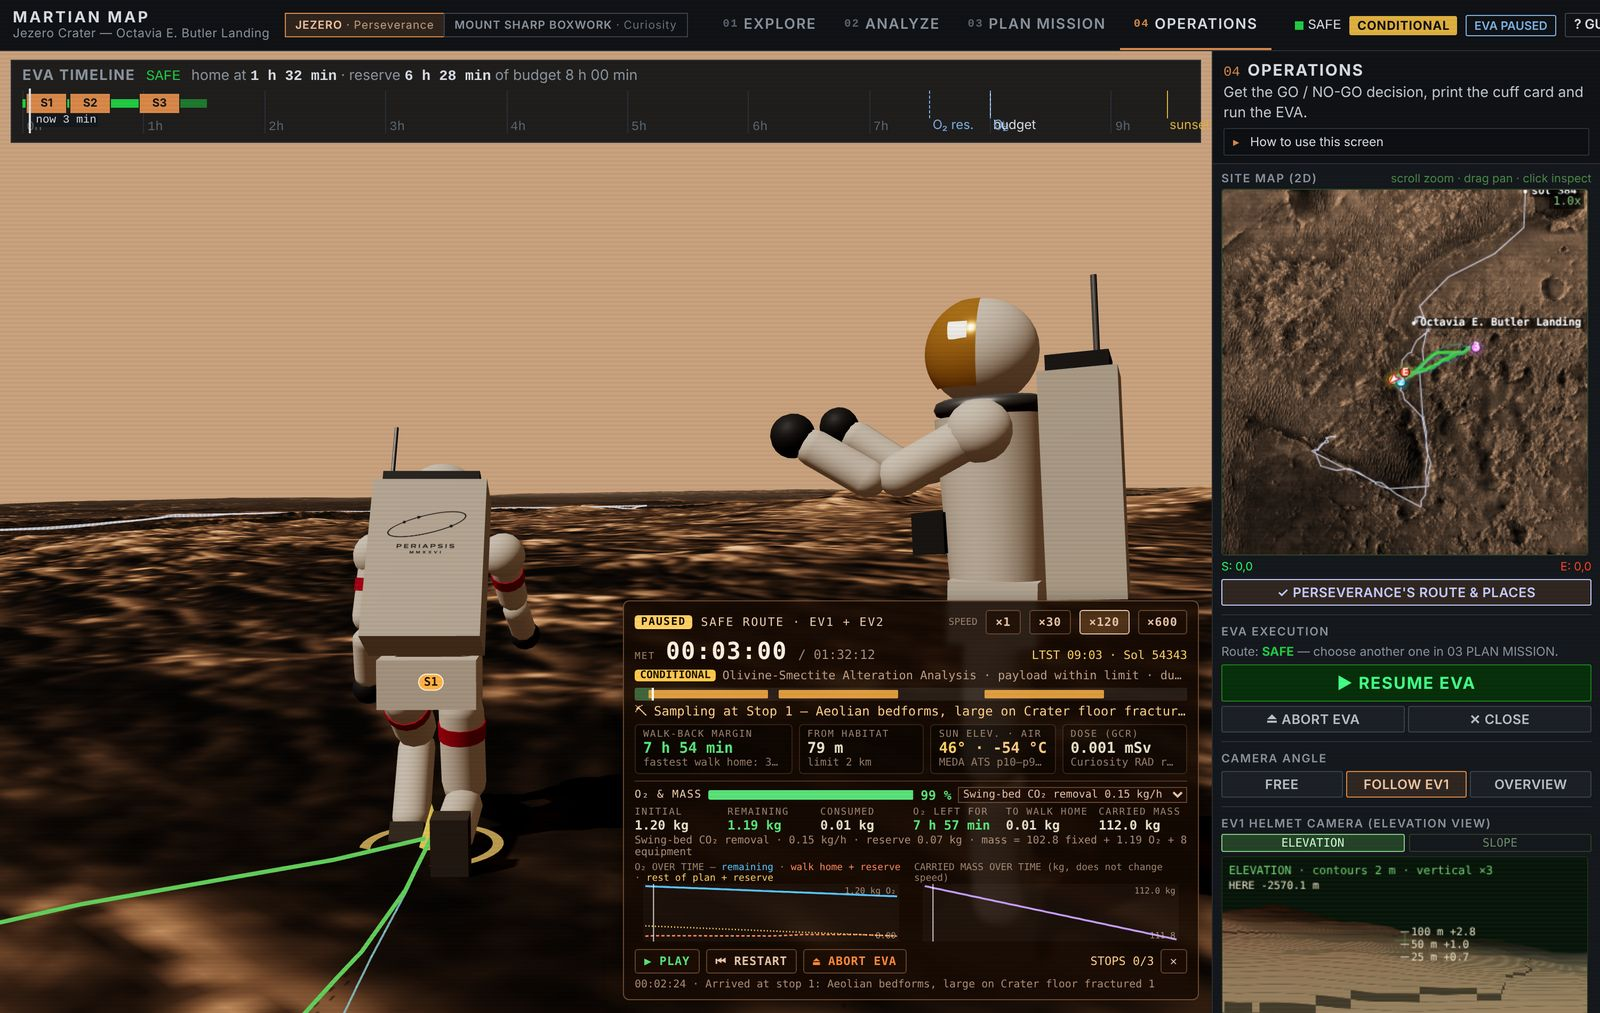
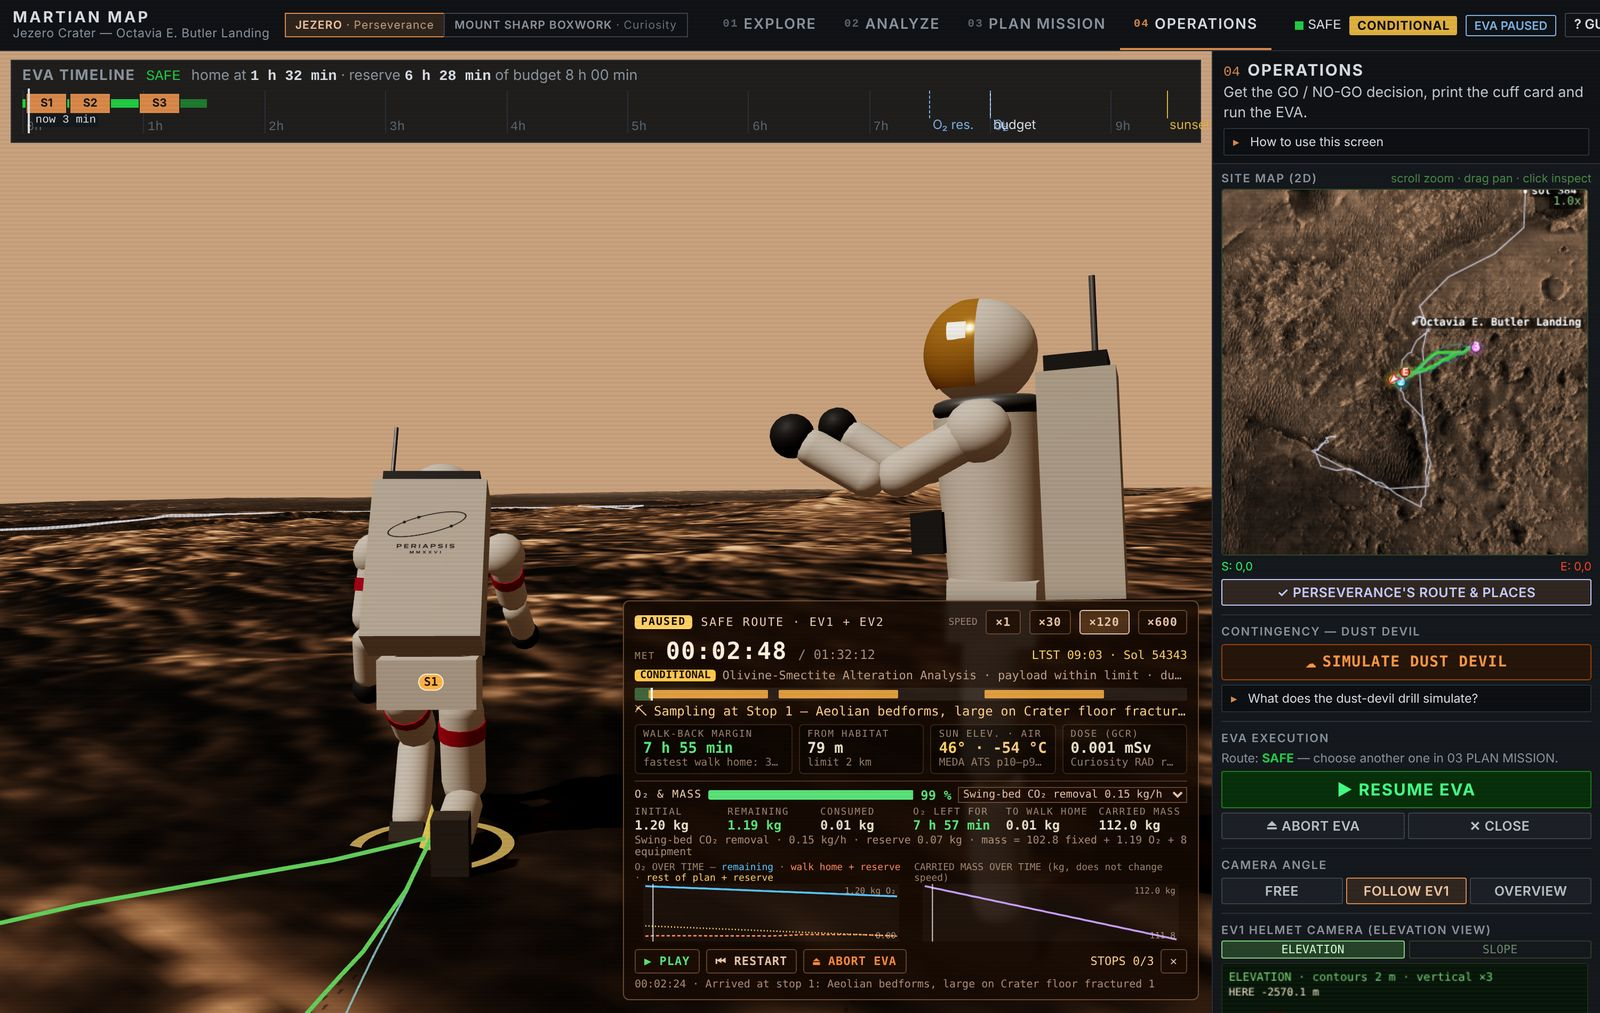
docs(readme): Operations order with the dust-devil drill under the site map; new hero
Claude-Session: https://claude.ai/code/session_01XjSewtSs7RhtByy8FnJEXA

diff --git a/README.md b/README.md
@@ -17,7 +17,7 @@ The first people to walk on Mars will want the best map possible. **Martian Map*
 
 > **Why another Mars map?** Tools like JPL's Mars Trek and the USGS–NASA geologic maps layer data over the whole planet, at regional scale. An astronaut on a single Marswalk needs the opposite: one 2 km × 2 km area, every layer on the same **4 m grid**, rocks picked out at **1 m**, and a plan that says *where to walk, what to sample, and when to turn back*. Martian Map is built for that hyperlocal scale.
 
-![04 OPERATIONS at Jezero: EV1 kneels to sample stop 1 while EV2 documents; the EVA timeline runs across the top; the HUD shows the mission clock, walk-back margin, distance from the habitat, sun, air temperature, dose and the oxygen & mass panel; the side panel shows the site map, START / RESUME EVA, the camera angle and the helmet camera](docs/img/hero.jpg)
+![04 OPERATIONS at Jezero: EV1 kneels to sample stop 1 while EV2 documents; the EVA timeline runs across the top; the HUD shows the mission clock, walk-back margin, distance from the habitat, sun, air temperature, dose and the oxygen & mass panel; the side panel shows the site map, the dust devil drill, RESUME / ABORT EVA, the camera angle and the helmet camera](docs/img/hero.jpg)
 
 ## At a glance
 
@@ -86,7 +86,7 @@ The Mars sites open in four workspaces, one per stage of a mission. Switching ke
 | **01 EXPLORE** — look at the site and what each layer shows | data catalog | 3D terrain | inspector of the clicked point, site map, camera |
 | **02 ANALYZE** — check the data the plan rests on, and what is missing | data catalog | 3D terrain | inspector, terrain analysis (layers, legend, compare, drape), scientific data available and missing, helmet camera, **Mars AI terrain segmentation**, provenance table |
 | **03 PLAN MISSION** — set up the crew and plan the walk | — | 3D terrain + **EVA timeline** | **site map** → **waypoints** (mark points on the map) → **route modes** SAFE / ECO / FAST / AUTO → objective & science stops → route comparison → mission configuration |
-| **04 OPERATIONS** — decide and run the EVA | — | 3D terrain + **EVA timeline** | **site map** → **START EVA** (the route chosen in Plan, not asked again) → **camera angle** (free / follow EV1 / overview) → **helmet camera** (image processing: elevation / slope view) → **Martian EVA Cuff** → mission summary & GO / NO-GO → contingency, telemetry, export, log |
+| **04 OPERATIONS** — decide and run the EVA | — | 3D terrain + **EVA timeline** | **site map** → **dust devil drill** (SIMULATE DUST DEVIL, then click the map) → **START EVA** (the route chosen in Plan, not asked again) → **camera angle** (free / follow EV1 / overview) → **helmet camera** (image processing: elevation / slope view) → **Martian EVA Cuff** → mission summary & GO / NO-GO → telemetry, export, log |
 
 - **Data catalog** — built from what the site actually loaded, by category (imagery, topography, geology, mineralogy, thermal, AI terrain segmentation, hazards, atmospheric, radiation). Tick a layer to drape it on the 3D terrain; several layers can be draped at once, each with its opacity and draw order; ⓘ opens its description and source.
 - **Inspector** — one card for a map point (coordinates, elevation, slope, hazard, distance home, *add as waypoint*), a data layer, a science stop or a route, with tabs for overview, scientific evidence, data source, technical details and mission relevance.
@@ -102,9 +102,9 @@ The Mars sites open in four workspaces, one per stage of a mission. Switching ke
 <tr><td align="center"><b>01 EXPLORE</b> — catalog, drapes, point inspector</td><td align="center"><b>02 ANALYZE</b> — layer inspector, terrain analysis</td></tr>
 <tr>
 <td width="50%"><img src="docs/img/ws-plan.jpg" alt="03 PLAN MISSION at Jezero: the EVA timeline across the top, both astronauts full height in the 3D view, and on the right the site map with the planned route, the waypoint list with ADD / REMOVE / PLAN PATH and the SAFE / ECO / FAST / AUTO route modes"></td>
-<td width="50%"><img src="docs/img/hero.jpg" alt="04 OPERATIONS at Jezero during the EVA: site map, RESUME / ABORT EVA, camera angle and helmet camera on the right, the HUD over the 3D view"></td>
+<td width="50%"><img src="docs/img/hero.jpg" alt="04 OPERATIONS at Jezero during the EVA: site map, dust devil drill, RESUME / ABORT EVA and camera angle on the right, the HUD over the 3D view"></td>
 </tr>
-<tr><td align="center"><b>03 PLAN MISSION</b> — map → waypoints → route modes</td><td align="center"><b>04 OPERATIONS</b> — map → EVA → camera angle → helmet camera</td></tr>
+<tr><td align="center"><b>03 PLAN MISSION</b> — map → waypoints → route modes</td><td align="center"><b>04 OPERATIONS</b> — map → dust devil drill → EVA → camera angle → helmet camera</td></tr>
 </table>
 
 ## On a tablet or a phone
@@ -480,7 +480,7 @@ Every number on the card is the planner's own: the same timeline the GO / NO-GO 
 - The HUD shows mission elapsed time, the current activity, the **live walk-back margin**, distance from the habitat, the sun, the site's air temperature (MEDA or REMS) and the **radiation dose so far**.
 - The **camera angle** sits right under START EVA: *Follow EV1* keeps both astronauts in frame, *Overview* shows the whole route, *Free* lets you fly around. The **helmet camera** under it is EV1's processed view of the ground ahead (elevation contours or slope classes).
 - **ABORT EVA** sends the crew home on the fastest path.
-- **SIMULATE DUST DEVIL** places a dust devil; what the crew does when they see it is below.
+- **SIMULATE DUST DEVIL**, right under the site map, arms the drill: click the map to drop a dust devil; what the crew does when they see it is below.
 
 ### Dust devil on the route — a new SAFE route, not a run home
 
